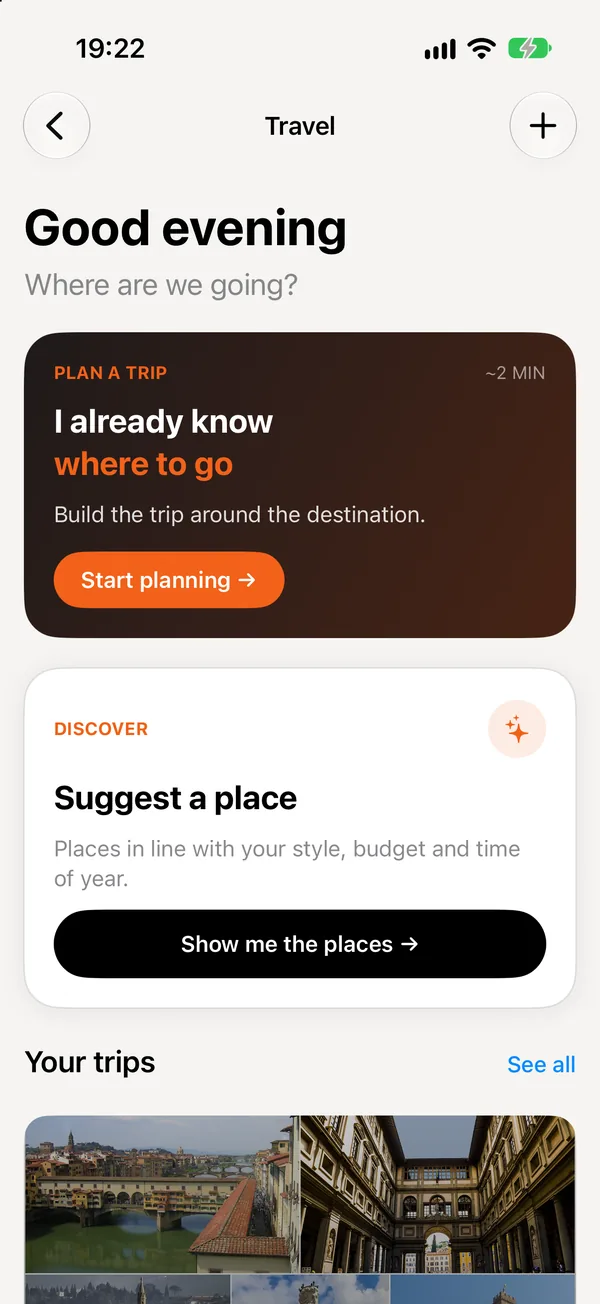
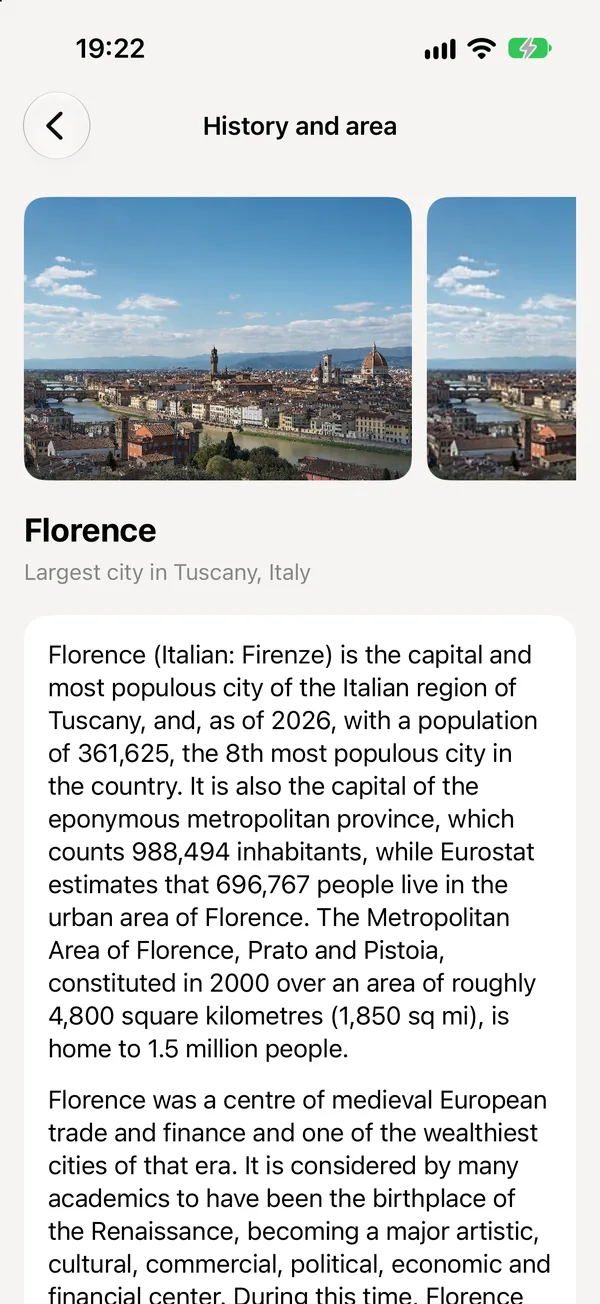
Landing: dettaglio del viaggio anche nelle home EN, ES e FR

diff --git a/KidboxLanding/public/index-fr.html b/KidboxLanding/public/index-fr.html
@@ -16,7 +16,7 @@
        si è certi che non servano più a nessun asset. -->
   <meta name="facebook-domain-verification" content="cxtp6xxmgv4zh0qea4l070g1tp9fd5" />
   <title>KidBox · Toute votre famille, organisée</title>
-  <link rel="canonical" href="https://kidboxapp.com/index-fr">
+  <link rel="canonical" href="https://kidboxapp.com/index-en">
   <link rel="alternate" hreflang="it" href="https://kidboxapp.com/">
   <link rel="alternate" hreflang="en" href="https://kidboxapp.com/index-en">
   <link rel="alternate" hreflang="es" href="https://kidboxapp.com/index-es">
@@ -344,7 +344,7 @@
     <a class="nav-lnk nav-hide" href="guide-fr.html">Guide</a>
     <a class="nav-lnk nav-hide" href="fr/tools/">Outils</a>
     <a class="nav-lnk nav-hide" href="fr/blog/">Blog</a>
-    <details class="lang-menu"><summary aria-label="Langue"><svg width="15" height="15" viewBox="0 0 24 24" fill="none" stroke="currentColor" stroke-width="1.8" aria-hidden="true"><circle cx="12" cy="12" r="9"/><path d="M3 12h18M12 3c2.5 2.7 3.8 5.7 3.8 9s-1.3 6.3-3.8 9M12 3C9.5 5.7 8.2 8.7 8.2 12s1.3 6.3 3.8 9"/></svg><span>FR</span></summary><div class="lang-list"><a href="index.html" hreflang="it" lang="it" data-lang="it">Italiano</a><a href="index-en.html" hreflang="en" lang="en" data-lang="en">English</a><a href="index-es.html" hreflang="es" lang="es" data-lang="es">Español</a><a href="index-fr.html" hreflang="fr" lang="fr" data-lang="fr" aria-current="true">Français</a></div></details>
+    <details class="lang-menu"><summary aria-label="Language"><svg width="15" height="15" viewBox="0 0 24 24" fill="none" stroke="currentColor" stroke-width="1.8" aria-hidden="true"><circle cx="12" cy="12" r="9"/><path d="M3 12h18M12 3c2.5 2.7 3.8 5.7 3.8 9s-1.3 6.3-3.8 9M12 3C9.5 5.7 8.2 8.7 8.2 12s1.3 6.3 3.8 9"/></svg><span>EN</span></summary><div class="lang-list"><a href="index.html" hreflang="it" lang="it" data-lang="it">Italiano</a><a href="index-fr.html" hreflang="en" lang="en" data-lang="en" aria-current="true">English</a><a href="index-es.html" hreflang="es" lang="es" data-lang="es">Español</a><a href="index-fr.html" hreflang="fr" lang="fr" data-lang="fr">Français</a></div></details>
     <button class="theme-btn" id="tg" aria-label="Changer de thème">◐</button>
     <a class="nav-cta" href="#scarica">Télécharger</a>
   </div>
@@ -467,7 +467,7 @@
       </ul>
     </div>
     <div class="band-visual">
-      <div class="device tilt"><div class="screen"><img class="shot" src="/assets/app/en/travel.webp" alt="Voyages, avec le voyage en famille en Toscane" width="600" height="1304" loading="lazy" decoding="async"></div></div>
+      <div class="device tilt"><div class="screen"><img class="shot" src="/assets/app/en/travel.webp" alt="Le voyage en famille en Toscane, avec budget et itinéraire" width="600" height="1304" loading="lazy" decoding="async"></div></div>
     </div>
   </div>
 
@@ -664,17 +664,17 @@
   </div>
   <!-- footer:start -->
   <footer>
-    <div class="sf-notes"><p>Le Plan alimentaire, le Plan fitness et les itinéraires de voyage par l&#x27;IA nécessitent l&#x27;abonnement Pro ou Max. L&#x27;assistant IA et les autres fonctions IA (lecture de documents et de billets, agents proactifs) utilisent les messages de l&#x27;offre : Free en comprend 5 d&#x27;essai, uniques.</p><p>Les fonctionnalités peuvent évoluer et certaines peuvent ne pas être disponibles sur toutes les plateformes.</p><p>App Store est une marque d&#x27;Apple Inc. Google Play est une marque de Google LLC.</p></div>
-    <div class="sf-grid" role="navigation" aria-label="Plan du site">
-      <div class="sf-col"><h3>Organisation</h3><ul><li><a href="fr/tools/calendario">Calendrier</a></li><li><a href="fr/tools/to-do">Tâches</a></li><li><a href="fr/tools/lista-della-spesa">Liste de courses</a></li><li><a href="fr/tools/spese">Dépenses</a></li><li><a href="fr/tools/note">Notes</a></li></ul><h3>Documents et sécurité</h3><ul><li><a href="fr/tools/documenti">Documents</a></li><li><a href="fr/tools/password">Mots de passe</a></li><li><a href="fr/tools/wallet">Wallet</a></li></ul></div>
-      <div class="sf-col"><h3>Famille</h3><ul><li><a href="fr/tools/famiglia">Famille et invitations</a></li><li><a href="fr/tools/chat">Chat</a></li><li><a href="fr/tools/posizione">Localisation</a></li><li><a href="fr/tools/foto-e-video">Photos et vidéos</a></li></ul><h3>Santé, maison et voiture</h3><ul><li><a href="fr/tools/salute">Santé</a></li><li><a href="fr/tools/casa">Maison</a></li><li><a href="fr/tools/veicoli">Véhicules</a></li><li><a href="fr/tools/animali">Animaux</a></li><li><a href="fr/tools/">Tous les outils →</a></li></ul></div>
-      <div class="sf-col"><h3>Blog</h3><ul><li><a href="fr/blog/maison-et-taches">Maison et tâches</a></li><li><a href="fr/blog/parents-separes">Parents séparés</a></li><li><a href="fr/blog/comparatifs-apps">Comparatifs d&#x27;apps</a></li><li><a href="fr/blog/organisation-familiale">Organisation familiale</a></li><li><a href="fr/blog/repas-et-courses">Repas et courses</a></li><li><a href="fr/blog/productivite-a-la-maison">Productivité à la maison</a></li><li><a href="fr/blog/sante-et-papiers">Santé et papiers</a></li><li><a href="fr/blog/">Tous les articles →</a></li></ul></div>
-      <div class="sf-col"><h3>IA</h3><ul><li><a href="fr/tools/assistente-ai">Assistant IA</a></li><li><a href="fr/tools/viaggi">Voyages</a></li></ul><h3>Télécharger</h3><ul><li><a href="https://apps.apple.com/app/apple-store/id6761055375?pt=122946364&ct=MetaAds-Landing&mt=8" target="_blank" rel="noopener">App Store</a></li><li><a href="https://play.google.com/store/apps/details?id=it.vittorioscocca.kidbox" target="_blank" rel="noopener">Google Play</a></li></ul></div>
-      <div class="sf-col"><h3>KidBox</h3><ul><li><a href="#prodotti">Produits</a></li><li><a href="#ai">IA</a></li><li><a href="#prezzi">Tarifs</a></li><li><a href="guide-fr.html">Guide</a></li><li><a href="https://app.kidboxapp.com">Ouvrir l&#x27;app web</a></li></ul><h3>Assistance et confidentialité</h3><ul><li><a href="support-fr.html">Assistance</a></li><li><a href="privacy-fr.html">Confidentialité</a></li><li><a href="terms-fr.html">Conditions d&#x27;utilisation</a></li><li><a href="data-deletion-fr.html">Suppression des données</a></li><li><a href="#" data-consent-open>Préférences cookies</a></li></ul><h3>Suivez-nous</h3><ul><li><a href="https://www.facebook.com/profile.php?id=61574265148948" target="_blank" rel="noopener">Facebook</a></li><li><a href="https://www.instagram.com/kidbox_app" target="_blank" rel="noopener">Instagram</a></li></ul></div>
+    <div class="sf-notes"><p>The Meal Plan, the Fitness Plan and AI trip itineraries require a Pro or Max plan. The AI assistant and the other AI features (document and ticket reading, proactive agents) use your plan&#x27;s messages: Free includes 5 one-off trial messages.</p><p>Features may change, and some may not be available on every platform.</p><p>App Store is a trademark of Apple Inc. Google Play is a trademark of Google LLC.</p></div>
+    <div class="sf-grid" role="navigation" aria-label="Site map">
+      <div class="sf-col"><h3>Organisation</h3><ul><li><a href="fr/tools/calendario">Calendar</a></li><li><a href="fr/tools/to-do">To-dos</a></li><li><a href="fr/tools/lista-della-spesa">Grocery list</a></li><li><a href="fr/tools/spese">Expenses</a></li><li><a href="fr/tools/note">Notes</a></li></ul><h3>Documents and security</h3><ul><li><a href="fr/tools/documenti">Documents</a></li><li><a href="fr/tools/password">Passwords</a></li><li><a href="fr/tools/wallet">Wallet</a></li></ul></div>
+      <div class="sf-col"><h3>Family</h3><ul><li><a href="fr/tools/famiglia">Family and invites</a></li><li><a href="fr/tools/chat">Chat</a></li><li><a href="fr/tools/posizione">Location</a></li><li><a href="fr/tools/foto-e-video">Photos and videos</a></li></ul><h3>Health, home and cars</h3><ul><li><a href="fr/tools/salute">Health</a></li><li><a href="fr/tools/casa">Home</a></li><li><a href="fr/tools/veicoli">Vehicles</a></li><li><a href="fr/tools/animali">Pets</a></li><li><a href="fr/tools/">All tools →</a></li></ul></div>
+      <div class="sf-col"><h3>Blog</h3><ul><li><a href="fr/blog/home-and-chores">Home and chores</a></li><li><a href="fr/blog/co-parenting">Co-parenting</a></li><li><a href="fr/blog/app-comparisons">App comparisons</a></li><li><a href="fr/blog/family-organisation">Family organisation</a></li><li><a href="fr/blog/meals-and-groceries">Meals and groceries</a></li><li><a href="fr/blog/productivity-at-home">Productivity at home</a></li><li><a href="fr/blog/health-and-documents">Health and documents</a></li><li><a href="fr/blog/family-travel">Family travel</a></li><li><a href="fr/blog/pets-and-cars">Pets and cars</a></li><li><a href="fr/blog/">All articles →</a></li></ul></div>
+      <div class="sf-col"><h3>AI</h3><ul><li><a href="fr/tools/assistente-ai">AI assistant</a></li><li><a href="fr/tools/viaggi">Trips</a></li></ul><h3>Download</h3><ul><li><a href="https://apps.apple.com/app/apple-store/id6761055375?pt=122946364&ct=MetaAds-Landing&mt=8" target="_blank" rel="noopener">App Store</a></li><li><a href="https://play.google.com/store/apps/details?id=it.vittorioscocca.kidbox" target="_blank" rel="noopener">Google Play</a></li></ul></div>
+      <div class="sf-col"><h3>KidBox</h3><ul><li><a href="#prodotti">Products</a></li><li><a href="#ai">AI</a></li><li><a href="#prezzi">Pricing</a></li><li><a href="guide-fr.html">Guide</a></li><li><a href="https://app.kidboxapp.com">Open the web app</a></li></ul><h3>Support and privacy</h3><ul><li><a href="support-fr.html">Support</a></li><li><a href="privacy-fr.html">Privacy</a></li><li><a href="terms-fr.html">Terms of service</a></li><li><a href="data-deletion-fr.html">Data deletion</a></li><li><a href="#" data-consent-open>Cookie preferences</a></li></ul><h3>Follow us</h3><ul><li><a href="https://www.facebook.com/profile.php?id=61574265148948" target="_blank" rel="noopener">Facebook</a></li><li><a href="https://www.instagram.com/kidbox_app" target="_blank" rel="noopener">Instagram</a></li></ul></div>
     </div>
     <div class="sf-bottom">
-      <div class="sf-bottom-l"><span>Copyright © 2026 KidBox. Tous droits réservés. Fait avec ❤ en Italie.</span><div class="sf-legal"><a href="privacy-fr.html">Confidentialité</a><a href="terms-fr.html">Conditions</a><a href="#" data-consent-open>Cookies</a><a href="data-deletion-fr.html">Suppression des données</a></div></div>
-      <div class="sf-lang"><a data-lang-alt="it" hreflang="it" href="index.html">Italiano</a><a data-lang-alt="en" hreflang="en" href="index-en.html">English</a><a data-lang-alt="es" hreflang="es" href="index-es.html">Español</a><strong aria-current="true">Français</strong></div>
+      <div class="sf-bottom-l"><span>Copyright © 2026 KidBox. All rights reserved. Made with ❤ in Italy.</span><div class="sf-legal"><a href="privacy-fr.html">Privacy</a><a href="terms-fr.html">Terms</a><a href="#" data-consent-open>Cookies</a><a href="data-deletion-fr.html">Data deletion</a></div></div>
+      <div class="sf-lang"><a data-lang-alt="it" hreflang="it" href="index.html">Italiano</a><strong aria-current="true">English</strong><a data-lang-alt="es" hreflang="es" href="index-es.html">Español</a><a data-lang-alt="fr" hreflang="fr" href="index-fr.html">Français</a></div>
     </div>
   </footer>
   <!-- footer:end -->

diff --git a/KidboxLanding/public/index-es.html b/KidboxLanding/public/index-es.html
@@ -16,7 +16,7 @@
        si è certi che non servano più a nessun asset. -->
   <meta name="facebook-domain-verification" content="cxtp6xxmgv4zh0qea4l070g1tp9fd5" />
   <title>KidBox · Toda tu familia, organizada</title>
-  <link rel="canonical" href="https://kidboxapp.com/index-es">
+  <link rel="canonical" href="https://kidboxapp.com/index-en">
   <link rel="alternate" hreflang="it" href="https://kidboxapp.com/">
   <link rel="alternate" hreflang="en" href="https://kidboxapp.com/index-en">
   <link rel="alternate" hreflang="es" href="https://kidboxapp.com/index-es">
@@ -344,7 +344,7 @@
     <a class="nav-lnk nav-hide" href="guide-es.html">Guía</a>
     <a class="nav-lnk nav-hide" href="es/tools/">Herramientas</a>
     <a class="nav-lnk nav-hide" href="es/blog/">Blog</a>
-    <details class="lang-menu"><summary aria-label="Idioma"><svg width="15" height="15" viewBox="0 0 24 24" fill="none" stroke="currentColor" stroke-width="1.8" aria-hidden="true"><circle cx="12" cy="12" r="9"/><path d="M3 12h18M12 3c2.5 2.7 3.8 5.7 3.8 9s-1.3 6.3-3.8 9M12 3C9.5 5.7 8.2 8.7 8.2 12s1.3 6.3 3.8 9"/></svg><span>ES</span></summary><div class="lang-list"><a href="index.html" hreflang="it" lang="it" data-lang="it">Italiano</a><a href="index-en.html" hreflang="en" lang="en" data-lang="en">English</a><a href="index-es.html" hreflang="es" lang="es" data-lang="es" aria-current="true">Español</a><a href="index-fr.html" hreflang="fr" lang="fr" data-lang="fr">Français</a></div></details>
+    <details class="lang-menu"><summary aria-label="Language"><svg width="15" height="15" viewBox="0 0 24 24" fill="none" stroke="currentColor" stroke-width="1.8" aria-hidden="true"><circle cx="12" cy="12" r="9"/><path d="M3 12h18M12 3c2.5 2.7 3.8 5.7 3.8 9s-1.3 6.3-3.8 9M12 3C9.5 5.7 8.2 8.7 8.2 12s1.3 6.3 3.8 9"/></svg><span>EN</span></summary><div class="lang-list"><a href="index.html" hreflang="it" lang="it" data-lang="it">Italiano</a><a href="index-es.html" hreflang="en" lang="en" data-lang="en" aria-current="true">English</a><a href="index-es.html" hreflang="es" lang="es" data-lang="es">Español</a><a href="index-fr.html" hreflang="fr" lang="fr" data-lang="fr">Français</a></div></details>
     <button class="theme-btn" id="tg" aria-label="Cambiar tema">◐</button>
     <a class="nav-cta" href="#scarica">Descarga gratis</a>
   </div>
@@ -467,7 +467,7 @@
       </ul>
     </div>
     <div class="band-visual">
-      <div class="device tilt"><div class="screen"><img class="shot" src="/assets/app/en/travel.webp" alt="Viajes, con el viaje en familia a la Toscana" width="600" height="1304" loading="lazy" decoding="async"></div></div>
+      <div class="device tilt"><div class="screen"><img class="shot" src="/assets/app/en/travel.webp" alt="El viaje en familia a la Toscana, con presupuesto e itinerario" width="600" height="1304" loading="lazy" decoding="async"></div></div>
     </div>
   </div>
 
@@ -664,17 +664,17 @@
   </div>
   <!-- footer:start -->
   <footer>
-    <div class="sf-notes"><p>El Plan de Alimentación, el Plan Fitness y los itinerarios de viaje con IA requieren el plan Pro o Max. El asistente de IA y las demás funciones de IA (lectura de documentos y billetes, agentes proactivos) usan los mensajes del plan: el Free incluye 5 de prueba, únicos.</p><p>Las funciones pueden cambiar y algunas podrían no estar disponibles en todas las plataformas.</p><p>App Store es una marca de Apple Inc. Google Play es una marca de Google LLC.</p></div>
-    <div class="sf-grid" role="navigation" aria-label="Mapa del sitio">
-      <div class="sf-col"><h3>Organización</h3><ul><li><a href="es/tools/calendario">Calendario</a></li><li><a href="es/tools/to-do">Tareas</a></li><li><a href="es/tools/lista-della-spesa">Lista de la compra</a></li><li><a href="es/tools/spese">Gastos</a></li><li><a href="es/tools/note">Notas</a></li></ul><h3>Documentos y seguridad</h3><ul><li><a href="es/tools/documenti">Documentos</a></li><li><a href="es/tools/password">Contraseñas</a></li><li><a href="es/tools/wallet">Wallet</a></li></ul></div>
-      <div class="sf-col"><h3>Familia</h3><ul><li><a href="es/tools/famiglia">Familia e invitaciones</a></li><li><a href="es/tools/chat">Chat</a></li><li><a href="es/tools/posizione">Ubicación</a></li><li><a href="es/tools/foto-e-video">Fotos y vídeos</a></li></ul><h3>Salud, hogar y coche</h3><ul><li><a href="es/tools/salute">Salud</a></li><li><a href="es/tools/casa">Hogar</a></li><li><a href="es/tools/veicoli">Vehículos</a></li><li><a href="es/tools/animali">Mascotas</a></li><li><a href="es/tools/">Todas las herramientas →</a></li></ul></div>
-      <div class="sf-col"><h3>Blog</h3><ul><li><a href="es/blog/casa-y-tareas">Casa y tareas</a></li><li><a href="es/blog/padres-separados">Padres separados</a></li><li><a href="es/blog/comparativas-de-apps">Comparativas de apps</a></li><li><a href="es/blog/organizacion-familiar">Organización familiar</a></li><li><a href="es/blog/comidas-y-compra">Comidas y compra</a></li><li><a href="es/blog/productividad-en-casa">Productividad en casa</a></li><li><a href="es/blog/salud-y-documentos">Salud y documentos</a></li><li><a href="es/blog/">Todos los artículos →</a></li></ul></div>
-      <div class="sf-col"><h3>IA</h3><ul><li><a href="es/tools/assistente-ai">Asistente de IA</a></li><li><a href="es/tools/viaggi">Viajes</a></li></ul><h3>Descargar</h3><ul><li><a href="https://apps.apple.com/app/apple-store/id6761055375?pt=122946364&ct=MetaAds-Landing&mt=8" target="_blank" rel="noopener">App Store</a></li><li><a href="https://play.google.com/store/apps/details?id=it.vittorioscocca.kidbox" target="_blank" rel="noopener">Google Play</a></li></ul></div>
-      <div class="sf-col"><h3>KidBox</h3><ul><li><a href="#prodotti">Productos</a></li><li><a href="#ai">IA</a></li><li><a href="#prezzi">Precios</a></li><li><a href="guide-es.html">Guía</a></li><li><a href="https://app.kidboxapp.com">Abrir la web app</a></li></ul><h3>Soporte y privacidad</h3><ul><li><a href="support-es.html">Soporte</a></li><li><a href="privacy-es.html">Privacidad</a></li><li><a href="terms-es.html">Términos del servicio</a></li><li><a href="data-deletion-es.html">Eliminación de datos</a></li><li><a href="#" data-consent-open>Preferencias de cookies</a></li></ul><h3>Síguenos</h3><ul><li><a href="https://www.facebook.com/profile.php?id=61574265148948" target="_blank" rel="noopener">Facebook</a></li><li><a href="https://www.instagram.com/kidbox_app" target="_blank" rel="noopener">Instagram</a></li></ul></div>
+    <div class="sf-notes"><p>The Meal Plan, the Fitness Plan and AI trip itineraries require a Pro or Max plan. The AI assistant and the other AI features (document and ticket reading, proactive agents) use your plan&#x27;s messages: Free includes 5 one-off trial messages.</p><p>Features may change, and some may not be available on every platform.</p><p>App Store is a trademark of Apple Inc. Google Play is a trademark of Google LLC.</p></div>
+    <div class="sf-grid" role="navigation" aria-label="Site map">
+      <div class="sf-col"><h3>Organisation</h3><ul><li><a href="es/tools/calendario">Calendar</a></li><li><a href="es/tools/to-do">To-dos</a></li><li><a href="es/tools/lista-della-spesa">Grocery list</a></li><li><a href="es/tools/spese">Expenses</a></li><li><a href="es/tools/note">Notes</a></li></ul><h3>Documents and security</h3><ul><li><a href="es/tools/documenti">Documents</a></li><li><a href="es/tools/password">Passwords</a></li><li><a href="es/tools/wallet">Wallet</a></li></ul></div>
+      <div class="sf-col"><h3>Family</h3><ul><li><a href="es/tools/famiglia">Family and invites</a></li><li><a href="es/tools/chat">Chat</a></li><li><a href="es/tools/posizione">Location</a></li><li><a href="es/tools/foto-e-video">Photos and videos</a></li></ul><h3>Health, home and cars</h3><ul><li><a href="es/tools/salute">Health</a></li><li><a href="es/tools/casa">Home</a></li><li><a href="es/tools/veicoli">Vehicles</a></li><li><a href="es/tools/animali">Pets</a></li><li><a href="es/tools/">All tools →</a></li></ul></div>
+      <div class="sf-col"><h3>Blog</h3><ul><li><a href="es/blog/home-and-chores">Home and chores</a></li><li><a href="es/blog/co-parenting">Co-parenting</a></li><li><a href="es/blog/app-comparisons">App comparisons</a></li><li><a href="es/blog/family-organisation">Family organisation</a></li><li><a href="es/blog/meals-and-groceries">Meals and groceries</a></li><li><a href="es/blog/productivity-at-home">Productivity at home</a></li><li><a href="es/blog/health-and-documents">Health and documents</a></li><li><a href="es/blog/family-travel">Family travel</a></li><li><a href="es/blog/pets-and-cars">Pets and cars</a></li><li><a href="es/blog/">All articles →</a></li></ul></div>
+      <div class="sf-col"><h3>AI</h3><ul><li><a href="es/tools/assistente-ai">AI assistant</a></li><li><a href="es/tools/viaggi">Trips</a></li></ul><h3>Download</h3><ul><li><a href="https://apps.apple.com/app/apple-store/id6761055375?pt=122946364&ct=MetaAds-Landing&mt=8" target="_blank" rel="noopener">App Store</a></li><li><a href="https://play.google.com/store/apps/details?id=it.vittorioscocca.kidbox" target="_blank" rel="noopener">Google Play</a></li></ul></div>
+      <div class="sf-col"><h3>KidBox</h3><ul><li><a href="#prodotti">Products</a></li><li><a href="#ai">AI</a></li><li><a href="#prezzi">Pricing</a></li><li><a href="guide-es.html">Guide</a></li><li><a href="https://app.kidboxapp.com">Open the web app</a></li></ul><h3>Support and privacy</h3><ul><li><a href="support-es.html">Support</a></li><li><a href="privacy-es.html">Privacy</a></li><li><a href="terms-es.html">Terms of service</a></li><li><a href="data-deletion-es.html">Data deletion</a></li><li><a href="#" data-consent-open>Cookie preferences</a></li></ul><h3>Follow us</h3><ul><li><a href="https://www.facebook.com/profile.php?id=61574265148948" target="_blank" rel="noopener">Facebook</a></li><li><a href="https://www.instagram.com/kidbox_app" target="_blank" rel="noopener">Instagram</a></li></ul></div>
     </div>
     <div class="sf-bottom">
-      <div class="sf-bottom-l"><span>Copyright © 2026 KidBox. Todos los derechos reservados. Hecho con ❤ en Italia.</span><div class="sf-legal"><a href="privacy-es.html">Privacidad</a><a href="terms-es.html">Términos</a><a href="#" data-consent-open>Cookies</a><a href="data-deletion-es.html">Eliminación de datos</a></div></div>
-      <div class="sf-lang"><a data-lang-alt="it" hreflang="it" href="index.html">Italiano</a><a data-lang-alt="en" hreflang="en" href="index-en.html">English</a><strong aria-current="true">Español</strong><a data-lang-alt="fr" hreflang="fr" href="index-fr.html">Français</a></div>
+      <div class="sf-bottom-l"><span>Copyright © 2026 KidBox. All rights reserved. Made with ❤ in Italy.</span><div class="sf-legal"><a href="privacy-es.html">Privacy</a><a href="terms-es.html">Terms</a><a href="#" data-consent-open>Cookies</a><a href="data-deletion-es.html">Data deletion</a></div></div>
+      <div class="sf-lang"><a data-lang-alt="it" hreflang="it" href="index.html">Italiano</a><strong aria-current="true">English</strong><a data-lang-alt="es" hreflang="es" href="index-es.html">Español</a><a data-lang-alt="fr" hreflang="fr" href="index-fr.html">Français</a></div>
     </div>
   </footer>
   <!-- footer:end -->

diff --git a/KidboxLanding/public/index-en.html b/KidboxLanding/public/index-en.html
@@ -467,7 +467,7 @@
       </ul>
     </div>
     <div class="band-visual">
-      <div class="device tilt"><div class="screen"><img class="shot" src="/assets/app/en/travel.webp" alt="Trips, with the family trip to Tuscany" width="600" height="1304" loading="lazy" decoding="async"></div></div>
+      <div class="device tilt"><div class="screen"><img class="shot" src="/assets/app/en/travel.webp" alt="The family trip to Tuscany, with budget and itinerary" width="600" height="1304" loading="lazy" decoding="async"></div></div>
     </div>
   </div>
 
